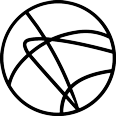
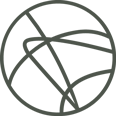
general styling - changes from Will

Changed region(s): [[0.0, 0.0, 1.0, 1.0]]

diff --git a/wp-content/themes/social-change/style.css b/wp-content/themes/social-change/style.css
@@ -304,6 +304,13 @@ h2 {
   }
 }
 
+h3 {
+  font-family: sans-serif;
+  font-size: 30px;
+  line-height: 36px;
+  text-align: center;
+}
+
 h5 {
   font-family: "din-2014", sans-serif;
   font-size: 13px;
@@ -388,6 +395,16 @@ blockquote, q {
 
 blockquote:before, blockquote:after, q:before, q:after {
   content: "";
+}
+
+.article-content blockquote {
+  margin: 0 40px;
+}
+
+.article-content blockquote p {
+  color: #948932;
+  font-size: 34px;
+  line-height: 42px;
 }
 
 hr {
@@ -482,6 +499,26 @@ input[type="submit"]:focus {
   outline: none;
 }
 
+.article-content button {
+  background: #fff;
+  border-color: #948932;
+  border-width: 2px;
+  color: #948932;
+  font-family: "din-2014", sans-serif;
+  font-size: 14px;
+  font-weight: 700;
+  letter-spacing: 3px;
+  line-height: 18px;
+  margin-top: 10px;
+  padding: 13px 40px 12px;
+  text-transform: uppercase;
+}
+
+.article-content button:hover {
+  background: #948932;
+  color: #fff;
+}
+
 input[type="text"],
 input[type="email"],
 input[type="url"],
@@ -546,6 +583,7 @@ textarea::placeholder {
 ## Links
 --------------------------------------------------------------*/
 a {
+  outline: 0;
   -webkit-transition: all .4s ease-in-out;
   -o-transition: all .4s ease-in-out;
   transition: all .4s ease-in-out;
@@ -556,6 +594,16 @@ a:focus, a:hover, a:active {
   -webkit-transition: all .3s ease-in-out;
   -o-transition: all .3s ease-in-out;
   transition: all .3s ease-in-out;
+}
+
+p a {
+  color: #404040;
+  border-bottom: 1px solid #948932;
+  text-decoration: none;
+}
+
+p a:hover {
+  color: #948932;
 }
 
 /*--------------------------------------------------------------
@@ -837,7 +885,16 @@ button#responsive-menu-button {
 
 .article-headings h5 a {
   text-decoration: none;
-  color: #9e2345;
+  color: #948932;
+}
+
+.article-headings .date-posted {
+  color: #5c5959;
+  font-family: "din-2014", sans-serif;
+  font-size: 14px;
+  letter-spacing: 2px;
+  margin: 16px 0 43px;
+  text-transform: uppercase;
 }
 
 .article-content {
@@ -1013,6 +1070,14 @@ button#responsive-menu-button {
   color: #9e2345;
 }
 
+.depth-1 .comment-respond,
+.depth-2 .comment-respond,
+.depth-3 .comment-respond,
+.depth-4 .comment-respond,
+.depth-5 .comment-respond {
+  margin: 0;
+}
+
 .comment-form-comment {
   margin-top: 40px;
 }
@@ -1039,7 +1104,7 @@ button#responsive-menu-button {
 }
 
 .related-articles .item h5 {
-  color: #9e2345;
+  color: #948932;
   margin-bottom: 6px;
   margin-top: 20px;
 }
@@ -1127,6 +1192,7 @@ button#responsive-menu-button {
 }
 
 .site-footer .site-info .copy {
+  color: #4e554c;
   float: left;
   font-family: "din-2014", sans-serif;
   font-weight: 600;
@@ -1141,6 +1207,7 @@ button#responsive-menu-button {
 }
 
 .site-footer .site-info .site-subtitle {
+  color: #71806f;
   font-family: "din-2014", sans-serif;
   margin-left: -76px;
 }
@@ -1175,12 +1242,12 @@ button#responsive-menu-button {
 }
 
 .site-footer .site-info .social a img {
-  opacity: 1;
+  opacity: .5;
   transition: opacity .5s ease-in-out;
 }
 
 .site-footer .site-info .social a:hover img {
-  opacity: .75;
+  opacity: 1;
   transition: opacity .35s ease-in-out;
 }
 
@@ -1472,7 +1539,7 @@ object {
 
 .single-post .a2a_floating_style a img {
   height: 20px !important;
-  opacity: .5;
+  opacity: .3;
   -webkit-transition: opacity .5s ease-in-out;
   -o-transition: opacity .5s ease-in-out;
   transition: opacity .5s ease-in-out;
@@ -1496,7 +1563,7 @@ object {
 }
 
 .single-post .a2a_floating_style a:hover img {
-  opacity: .75;
+  opacity: .7;
   -webkit-transition: opacity .35s ease-in-out;
   -o-transition: opacity .35s ease-in-out;
   transition: opacity .35s ease-in-out;

diff --git a/wp-content/themes/social-change/sass/site/primary/_posts-and-pages.scss b/wp-content/themes/social-change/sass/site/primary/_posts-and-pages.scss
@@ -76,8 +76,17 @@
 
     a {
       text-decoration: none;
-      color: $magenta;
+      color: $olive;
     }
+  }
+
+  .date-posted {
+    color: $date;
+    font-family: $font__menu;
+    font-size: 14px;
+    letter-spacing: 2px;
+    margin: 16px 0 43px;
+    text-transform: uppercase;
   }
 }
 
@@ -234,6 +243,14 @@
   }
 }
 
+.depth-1 .comment-respond,
+.depth-2 .comment-respond,
+.depth-3 .comment-respond,
+.depth-4 .comment-respond,
+.depth-5 .comment-respond {
+  margin: 0;
+}
+
 .comment-form-comment {
   margin-top: 40px;
 }
@@ -262,7 +279,7 @@
     }
 
     h5 {
-      color: $magenta;
+      color: $olive;
       margin-bottom: 6px;
       margin-top: 20px;
     }

diff --git a/wp-content/themes/social-change/sass/layout/_footer.scss b/wp-content/themes/social-change/sass/layout/_footer.scss
@@ -39,6 +39,7 @@
     }
 
     .copy {
+      color: $footer-grey;
       float: left;
       font-family: $font__menu;
       font-weight: 600;
@@ -51,6 +52,7 @@
     }
 
     .site-subtitle {
+      color: $footer-tagline;
       font-family: $font__menu;
       margin-left: -76px; //width of circle showing + left margin on copy - right margin on social
 
@@ -78,12 +80,12 @@
       }
 
       a img {
-        opacity: 1;
+        opacity: .5;
         transition: opacity .5s ease-in-out;
       }
 
       a:hover img {
-        opacity: .75;
+        opacity: 1;
         transition: opacity .35s ease-in-out;
       }
     }

diff --git a/wp-content/themes/social-change/sass/media/_share-this.scss b/wp-content/themes/social-change/sass/media/_share-this.scss
@@ -35,7 +35,7 @@
 
     img {
       height: 20px !important;
-      opacity: .5;
+      opacity: .3;
       -webkit-transition: opacity .5s ease-in-out;
       -o-transition: opacity .5s ease-in-out;
       transition: opacity .5s ease-in-out;
@@ -55,7 +55,7 @@
     }
 
     &:hover img {
-      opacity: .75;
+      opacity: .7;
       -webkit-transition: opacity .35s ease-in-out;
       -o-transition: opacity .35s ease-in-out;
       transition: opacity .35s ease-in-out;

diff --git a/wp-content/themes/social-change/sass/forms/_buttons.scss b/wp-content/themes/social-change/sass/forms/_buttons.scss
@@ -27,3 +27,23 @@ input[type="submit"] {
 		outline: none;
 	}
 }
+
+.article-content button {
+	background: $white;
+	border-color: $olive;
+	border-width: 2px;
+	color: $olive;
+	font-family: $font__menu;
+	font-size: 14px;
+	font-weight: 700;
+	letter-spacing: 3px;
+  line-height: 18px;
+  margin-top: 10px;
+	padding: 13px 40px 12px;
+	text-transform: uppercase;
+
+	&:hover {
+		background: $olive;
+		color: $white;
+	}
+}

diff --git a/wp-content/themes/social-change/sass/navigation/_links.scss b/wp-content/themes/social-change/sass/navigation/_links.scss
@@ -1,4 +1,5 @@
 a {
+  outline: 0;
   -webkit-transition: all .4s ease-in-out;
   -o-transition: all .4s ease-in-out;
   transition: all .4s ease-in-out;
@@ -11,4 +12,14 @@ a {
     -o-transition: all .3s ease-in-out;
     transition: all .3s ease-in-out;
 	}
+}
+
+p a {
+  color: $color__text-main;
+  border-bottom: 1px solid $olive;
+  text-decoration: none;
+
+  &:hover {
+    color: $olive;
+  }
 }

diff --git a/wp-content/themes/social-change/sass/elements/_elements.scss b/wp-content/themes/social-change/sass/elements/_elements.scss
@@ -21,6 +21,16 @@ blockquote, q {
 	}
 }
 
+.article-content blockquote {
+	margin: 0 40px;
+
+	p {
+		color: $olive;
+		font-size: 34px;
+		line-height: 42px;
+	}
+}
+
 hr {
 	background-color: $color__background-hr;
 	border: 0;

diff --git a/wp-content/themes/social-change/sass/typography/_headings.scss b/wp-content/themes/social-change/sass/typography/_headings.scss
@@ -28,6 +28,13 @@ h2 {
   }
 }
 
+h3 {
+  font-family: $font__main;
+  font-size: 30px;
+  line-height: 36px;
+  text-align: center;
+}
+
 h5 {
   font-family: $font__menu;
   font-size: 13px;

diff --git a/wp-content/themes/social-change/sass/variables-site/_colors.scss b/wp-content/themes/social-change/sass/variables-site/_colors.scss
@@ -31,3 +31,8 @@ $beige: #f7f7f7;
 $olive: #948932;
 $rules: #d8d8d8;
 $text-grey: #4f4f4f;
+$date: #5c5959;
+$footer-grey: #4e554c;
+$footer-tagline: #71806f;
+
+$white: #fff;
